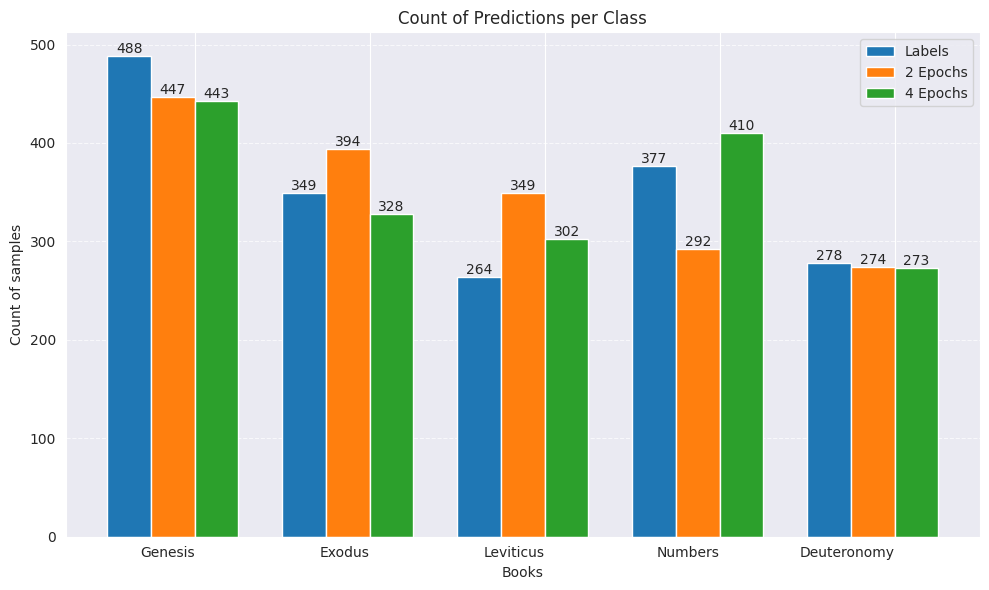
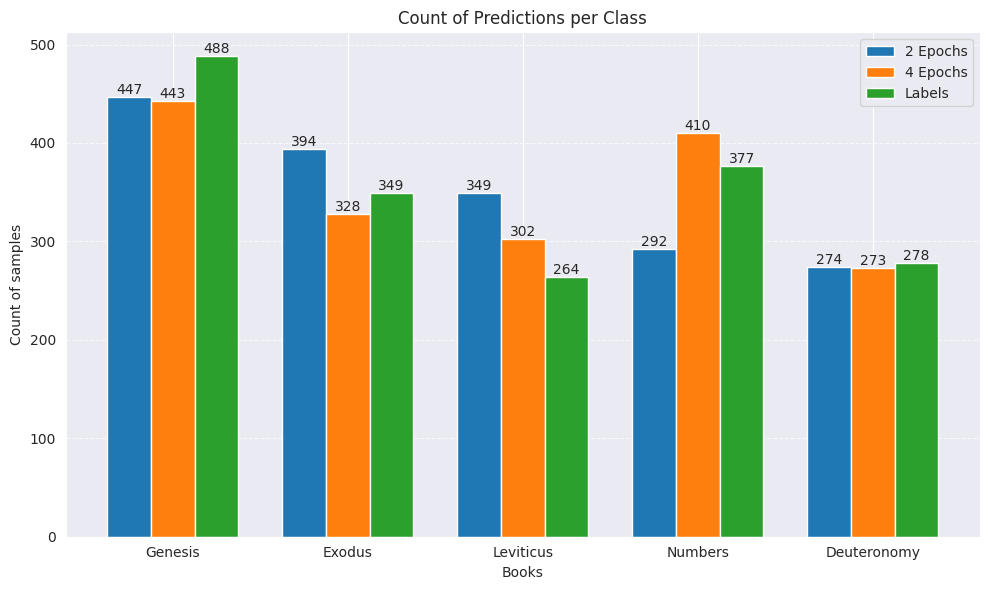
Last graph improved

diff --git a/report.md b/report.md
@@ -876,7 +876,8 @@ bar_width = 0.25
 
 # Create the plot
 fig, ax = plt.subplots(figsize=(10, 6))
-label_bars = ax.bar(x - bar_width, num_labels, bar_width, label='Labels')
+
+# Plot prediction bars first
 for i, (name, counts) in enumerate(pred_counts.items()):
     pred_bars = ax.bar(x + i * bar_width, [counts[label] for label in range(len(torah_books))], bar_width, label=name)
 
@@ -885,14 +886,17 @@ for i, (name, counts) in enumerate(pred_counts.items()):
         height = bar.get_height()
         ax.text(bar.get_x() + bar.get_width() / 2, height, f'{int(height)}', ha='center', va='bottom')
 
+# Plot label bars last
+label_bars = ax.bar(x + len(pred_counts) * bar_width, num_labels, bar_width, label='Labels')
+
 # Add text values to label bars
 for bar in label_bars:
     height = bar.get_height()
     ax.text(bar.get_x() + bar.get_width() / 2, height, f'{int(height)}', ha='center', va='bottom')
 
 # Customize the plot
-ax.set(xlabel='Books', ylabel='Count', title='Count of Predictions per Class')
-ax.set_xticks(x + 0.125, torah_books, rotation=0, ha='right')
+ax.set(xlabel='Books', ylabel='Count of samples', title='Count of Predictions per Class')
+ax.set_xticks(x + 0.25, torah_books, rotation=0, ha='center')
 ax.legend()
 ax.grid(axis='y', linestyle='--', alpha=0.7)
 plt.tight_layout()
